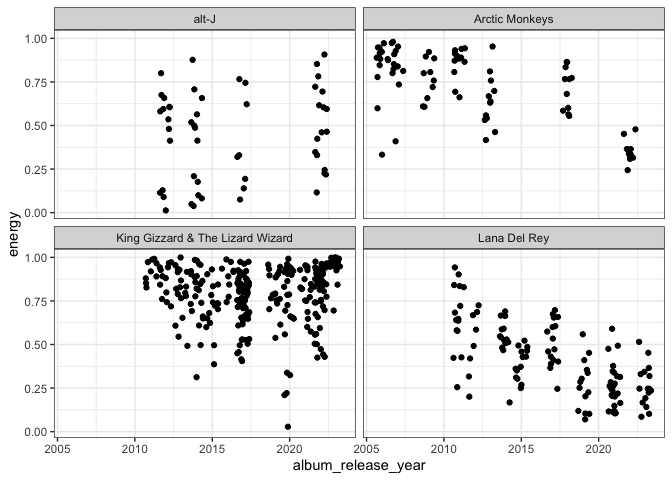
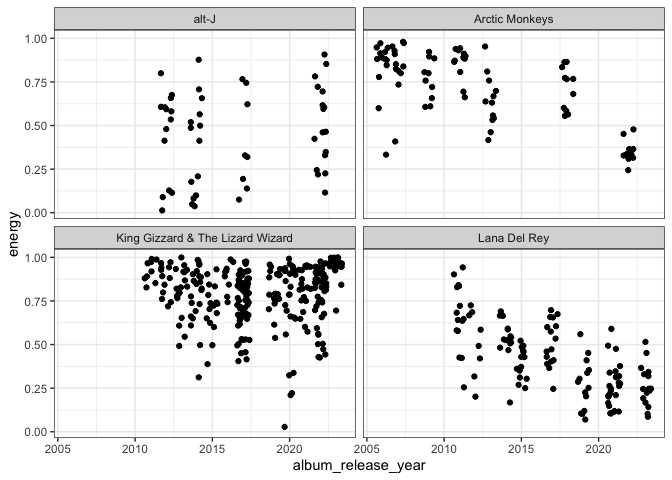
Adds some intermediate unnested tibbles and reknits

diff --git a/assignment-b4.md b/assignment-b4.md
@@ -248,11 +248,12 @@ spotify_distinct %>%
         facet_wrap(~artist_name)
 ```
 
-![](assignment-b4_files/figure-gfm/scatter_plots-1.png)<!-- --> There
-seems to be a somewhat negative trend for Lana del Rey’s music getting
-less energetic throughout the years. Arctic Monkey’s las album also
-seems to be much more less energetic than the rest. alt-J doesn’t show
-much difference, and KG&LW is all over the place.
+![](assignment-b4_files/figure-gfm/scatter_plots-1.png)<!-- -->
+
+There seems to be a somewhat negative trend for Lana del Rey’s music
+getting less energetic throughout the years. Arctic Monkey’s las album
+also seems to be much more less energetic than the rest. alt-J doesn’t
+show much difference, and KG&LW is all over the place.
 
 Another plot that can help visualize this evolution is a ridgeline plot.
 
@@ -359,118 +360,75 @@ the model doesn’t predict at all the behavior of energy across time
 However after looking at the distribution plots I’m sure there are at
 least some albums whose average energy is significantly different from
 the others, at least for Arctic Monkeys, Lana del Rey, and KG&LW. So
-I’ll try to perform an anova model too :D
+I’ll do an anova model too to determine if there are at least 1 album
+with a significantly different mean energy than the others for each
+artist.
 
 ``` r
 spotify_models <- spotify_models %>%
     mutate(aov = map(data, \(x) aov(energy ~ album_name, x)),
-                 aov_summary = map(aov, summary)
+                 aov_summary = map(aov, broom::tidy)
                  ) 
 names(spotify_models$aov) <- artists
 names(spotify_models$aov_summary) <- artists
-
-spotify_models$aov_summary
 ```
 
-    ## $`alt-J`
-    ##             Df Sum Sq Mean Sq F value Pr(>F)
-    ## album_name   3  0.133 0.04431   0.664  0.578
-    ## Residuals   49  3.272 0.06677               
-    ## 
-    ## $`Arctic Monkeys`
-    ##             Df Sum Sq Mean Sq F value   Pr(>F)    
-    ## album_name   6  1.991  0.3318   18.67 4.98e-13 ***
-    ## Residuals   73  1.298  0.0178                     
-    ## ---
-    ## Signif. codes:  0 '***' 0.001 '**' 0.01 '*' 0.05 '.' 0.1 ' ' 1
-    ## 
-    ## $`Lana Del Rey`
-    ##              Df Sum Sq Mean Sq F value Pr(>F)    
-    ## album_name    8  2.639  0.3299   16.98 <2e-16 ***
-    ## Residuals   114  2.215  0.0194                   
-    ## ---
-    ## Signif. codes:  0 '***' 0.001 '**' 0.01 '*' 0.05 '.' 0.1 ' ' 1
-    ## 
-    ## $`King Gizzard & The Lizard Wizard`
-    ##              Df Sum Sq Mean Sq F value   Pr(>F)    
-    ## album_name   26  1.814 0.06979   3.059 2.86e-06 ***
-    ## Residuals   260  5.932 0.02282                     
-    ## ---
-    ## Signif. codes:  0 '***' 0.001 '**' 0.01 '*' 0.05 '.' 0.1 ' ' 1
+``` r
+spotify_models %>%
+    unnest(aov_summary) %>%
+    filter(term != "Residuals") %>%
+    select(artist_name,p.value)
+```
 
-We can see from the `Pr(>F)` values that for Arctic Monkeys, Lana del
-Rey, and KG&LW there is at least 1 album that has a significantly
-different mean energy from the rest. So now I can perform a Tukey HSD
-test to see exactly which albums have significantly differente mean
-energy from each other.
+    ## # A tibble: 4 × 2
+    ##   artist_name                       p.value
+    ##   <chr>                               <dbl>
+    ## 1 alt-J                            5.78e- 1
+    ## 2 Arctic Monkeys                   4.98e-13
+    ## 3 Lana Del Rey                     2.17e-16
+    ## 4 King Gizzard & The Lizard Wizard 2.86e- 6
+
+We can see from the p.values that for Arctic Monkeys, Lana del Rey, and
+KG&LW there is at least 1 album that has a significantly different mean
+energy from the rest. So now I can perform a Tukey HSD test to see
+exactly which albums have significantly different mean energy from each
+other.
 
 ``` r
 spotify_models <- spotify_models %>%
     mutate(tukey = map(aov, \(x) TukeyHSD(x) %>% broom::tidy()))
 
 names(spotify_models$tukey) <- artists
-
-walk(spotify_models$tukey, 
-        \(x) { tbl <- filter(x, adj.p.value < 0.05) %>% # print only significantly different pairs
-        select(contrast, estimate, conf.low, conf.high, adj.p.value)
-        print(tbl) 
-        }
-     ) 
 ```
 
-    ## # A tibble: 0 × 5
-    ## # ℹ 5 variables: contrast <chr>, estimate <dbl>, conf.low <dbl>,
-    ## #   conf.high <dbl>, adj.p.value <dbl>
-    ## # A tibble: 9 × 5
-    ##   contrast                               estimate conf.low conf.high adj.p.value
-    ##   <chr>                                     <dbl>    <dbl>     <dbl>       <dbl>
-    ## 1 Favourite Worst Nightmare (Standard V…    0.196   0.0306     0.361     1.01e-2
-    ## 2 Suck It and See-AM                        0.219   0.0541     0.384     2.52e-3
-    ## 3 The Car-AM                               -0.286  -0.459     -0.113     7.26e-5
-    ## 4 Whatever People Say I Am, That's What…    0.191   0.0289     0.353     1.08e-2
-    ## 5 The Car-Favourite Worst Nightmare (St…   -0.482  -0.655     -0.309     0      
-    ## 6 The Car-Humbug                           -0.413  -0.594     -0.233     2.87e-8
-    ## 7 The Car-Suck It and See                  -0.505  -0.678     -0.332     0      
-    ## 8 Tranquility Base Hotel & Casino-The C…    0.361   0.185      0.538     6.24e-7
-    ## 9 Whatever People Say I Am, That's What…    0.477   0.307      0.647     0      
-    ## # A tibble: 17 × 5
-    ##    contrast                              estimate conf.low conf.high adj.p.value
-    ##    <chr>                                    <dbl>    <dbl>     <dbl>       <dbl>
-    ##  1 Born To Die (Deluxe Version)-Blue Ba…    0.390   0.229     0.551     2.29e-10
-    ##  2 Lust For Life-Blue Banisters             0.238   0.0799    0.397     1.96e- 4
-    ##  3 Paradise-Blue Banisters                  0.239   0.0463    0.432     4.61e- 3
-    ##  4 Ultraviolence (Deluxe)-Blue Banisters    0.262   0.0979    0.425     5.77e- 5
-    ##  5 Chemtrails Over The Country Club-Bor…   -0.422  -0.597    -0.247     2.84e-10
-    ##  6 Did you know that there's a tunnel u…   -0.399  -0.558    -0.241     4.69e-11
-    ##  7 Honeymoon-Born To Die (Deluxe Versio…   -0.270  -0.434    -0.106     2.95e- 5
-    ##  8 Norman Fucking Rockwell!-Born To Die…   -0.393  -0.557    -0.229     3.50e-10
-    ##  9 Lust For Life-Chemtrails Over The Co…    0.270   0.0973    0.443     9.06e- 5
-    ## 10 Paradise-Chemtrails Over The Country…    0.271   0.0661    0.476     1.81e- 3
-    ## 11 Ultraviolence (Deluxe)-Chemtrails Ov…    0.293   0.116     0.471     2.78e- 5
-    ## 12 Lust For Life-Did you know that ther…    0.248   0.0917    0.403     6.53e- 5
-    ## 13 Paradise-Did you know that there's a…    0.249   0.0577    0.439     2.30e- 3
-    ## 14 Ultraviolence (Deluxe)-Did you know …    0.271   0.110     0.432     1.90e- 5
-    ## 15 Norman Fucking Rockwell!-Lust For Li…   -0.241  -0.402    -0.0796    2.25e- 4
-    ## 16 Paradise-Norman Fucking Rockwell!        0.242   0.0465    0.437     4.70e- 3
-    ## 17 Ultraviolence (Deluxe)-Norman Fuckin…    0.264   0.0977    0.431     6.70e- 5
-    ## # A tibble: 8 × 5
-    ##   contrast                               estimate conf.low conf.high adj.p.value
-    ##   <chr>                                     <dbl>    <dbl>     <dbl>       <dbl>
-    ## 1 The Silver Cord-Chunky Shrapnel           0.242  0.0351     0.448     0.00501 
-    ## 2 The Silver Cord-Gumboot Soup              0.230  0.00267    0.458     0.0434  
-    ## 3 PetroDragonic Apocalypse; or, Dawn of…    0.270  0.00123    0.538     0.0473  
-    ## 4 The Silver Cord-Paper Mâché Dream Bal…    0.270  0.0483     0.493     0.00243 
-    ## 5 Polygondwanaland-PetroDragonic Apocal…   -0.306 -0.585     -0.0281    0.0135  
-    ## 6 The Silver Cord-Polygondwanaland          0.307  0.0732     0.541     0.000512
-    ## 7 Willoughby’s Beach-Polygondwanaland       0.277  0.0180     0.537     0.0207  
-    ## 8 The Silver Cord-Sketches of Brunswick…    0.228  0.0103     0.445     0.0277
+``` r
+spotify_models %>%
+    unnest(tukey) %>%
+    filter(adj.p.value < 0.05) %>%
+    select(artist_name, contrast, estimate, conf.low, conf.high)
+```
+
+    ## # A tibble: 34 × 5
+    ##    artist_name    contrast                           estimate conf.low conf.high
+    ##    <chr>          <chr>                                 <dbl>    <dbl>     <dbl>
+    ##  1 Arctic Monkeys Favourite Worst Nightmare (Standa…    0.196   0.0306     0.361
+    ##  2 Arctic Monkeys Suck It and See-AM                    0.219   0.0541     0.384
+    ##  3 Arctic Monkeys The Car-AM                           -0.286  -0.459     -0.113
+    ##  4 Arctic Monkeys Whatever People Say I Am, That's …    0.191   0.0289     0.353
+    ##  5 Arctic Monkeys The Car-Favourite Worst Nightmare…   -0.482  -0.655     -0.309
+    ##  6 Arctic Monkeys The Car-Humbug                       -0.413  -0.594     -0.233
+    ##  7 Arctic Monkeys The Car-Suck It and See              -0.505  -0.678     -0.332
+    ##  8 Arctic Monkeys Tranquility Base Hotel & Casino-T…    0.361   0.185      0.538
+    ##  9 Arctic Monkeys Whatever People Say I Am, That's …    0.477   0.307      0.647
+    ## 10 Lana Del Rey   Born To Die (Deluxe Version)-Blue…    0.390   0.229      0.551
+    ## # ℹ 24 more rows
 
 The adjusted P value determines if the pairwise comparison (`contrast`)
 is significantly different (p \< 0.05) or not, here I filtered for only
-significantly different comparisons. alt-J has none and it’s interesting
-to see that KG&LW has less pairs of albums with significantly different
-mean energy than Lana del Rey and Arctic Monkeys (8 pairs vs 17 and 9
-respectively).
+significantly different comparisons (p \< 0.05). alt-J has none and it’s
+interesting to see that KG&LW has less pairs of albums with
+significantly different mean energy than Lana del Rey and Arctic Monkeys
+(8 pairs vs 17 and 9 respectively).
 
 Now I’ll make some final plots to show the relationship between albums,
 the idea is to connect albums that are similar to each other. I’ll first
